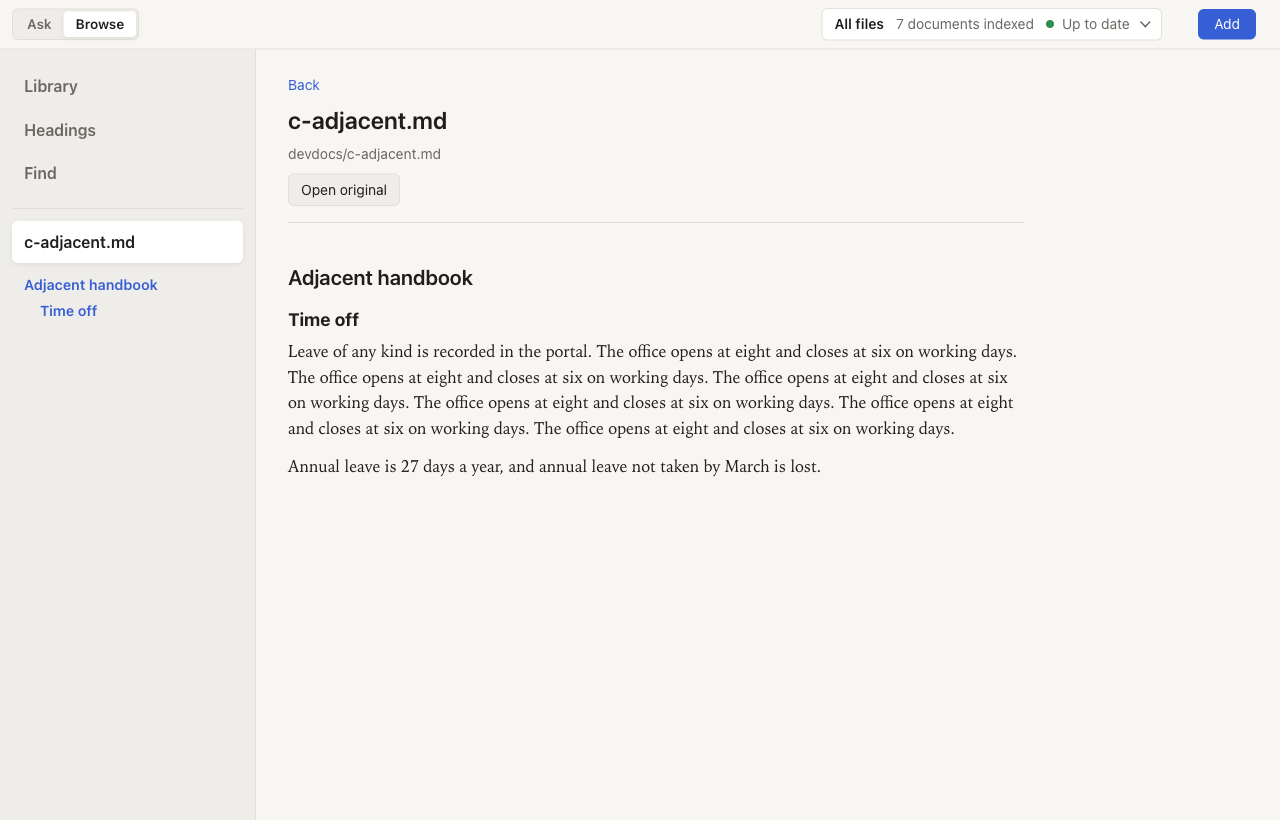
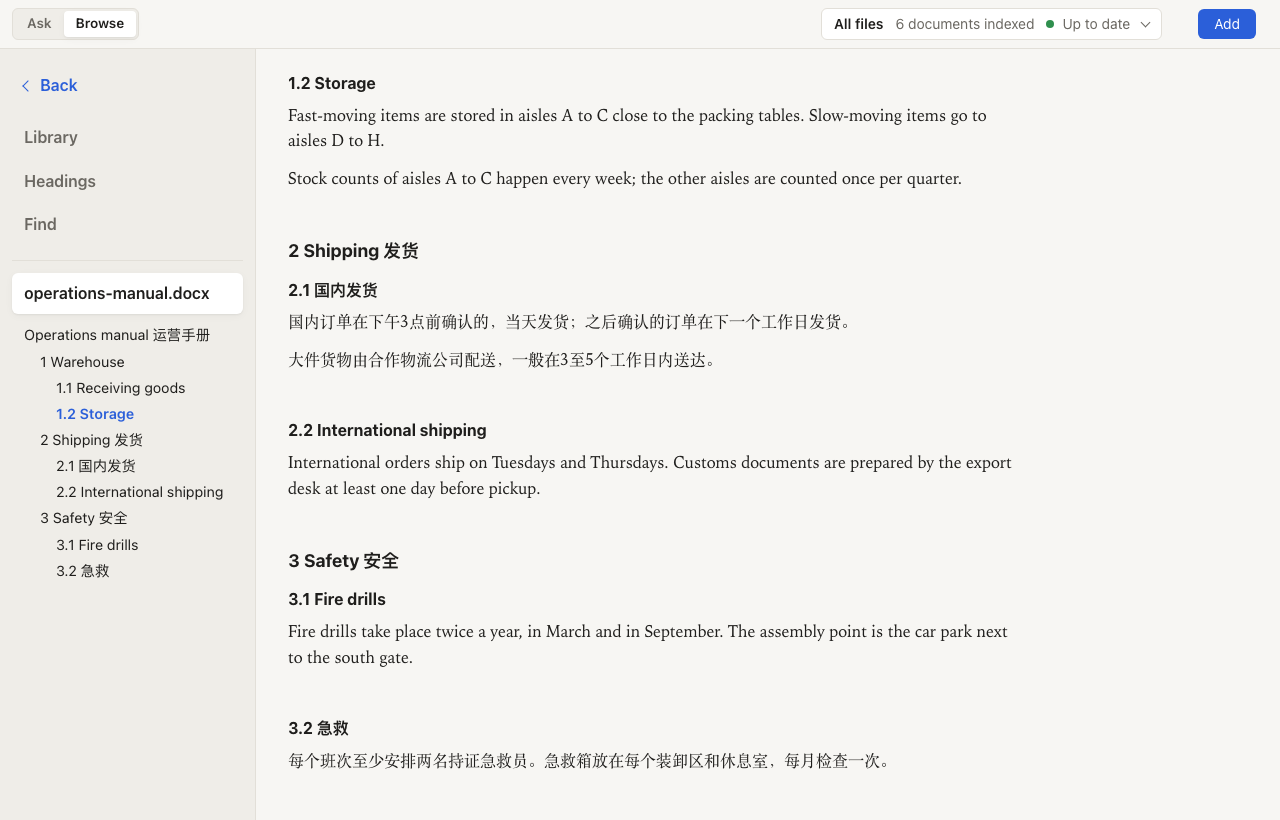
Back at the top of the Browse sidebar, history cleared on a library change; tests

diff --git a/src/renderer/browse/view.js b/src/renderer/browse/view.js
@@ -8,11 +8,13 @@
 // Library, Headings or Find show.
 //
 // Every move between pages and documents goes into the page history (shared/history.js): the
-// Ask page passes its own, which spans Ask and Browse; on its own the view keeps one. Back on the
-// Document page and Cmd+[ return to the place before, as it was left.
+// Ask page passes its own, which spans Ask and Browse; on its own the view keeps one. Back at the
+// top of the sidebar, always shown and disabled when there is nothing to go back to, and Cmd+[
+// return to the place before, as it was left.
 
 const MARKUP = `
 <nav class="browse-sidebar" aria-label="Browse" data-testid="browse-sidebar">
+  <button type="button" class="sidebar-back" data-testid="browse-back" aria-keyshortcuts="Meta+BracketLeft" title="Back (Cmd+[)" disabled>Back</button>
   <button type="button" class="browse-tab" data-tab="library" data-testid="browse-tab-library">Library</button>
   <button type="button" class="browse-tab" data-tab="headings" data-testid="browse-tab-headings">Headings</button>
   <button type="button" class="browse-tab" data-tab="find" data-testid="browse-tab-find">Find</button>
@@ -42,7 +44,6 @@ const MARKUP = `
 <section class="browse-page" data-page="document" data-testid="document" aria-label="Document" hidden>
   <article class="doc-body">
     <header class="doc-head">
-      <button type="button" class="link doc-back" data-testid="doc-back" hidden>Back</button>
       <h1 class="doc-title" data-testid="doc-title"></h1>
       <p class="doc-path" data-testid="doc-path"></p>
       <button type="button" class="open" data-testid="doc-open">Open original</button>
@@ -198,9 +199,9 @@ export function createBrowseView(root, { history: shared = null } = {}) {
       history.back();
     });
   }
-  const renderBack = () => (q('doc-back').hidden = !history.canGoBack());
+  const renderBack = () => (q('browse-back').disabled = !history.canGoBack());
   history.onChange(renderBack);
-  q('doc-back').addEventListener('click', () => history.back());
+  q('browse-back').addEventListener('click', () => history.back());
   /** Scroll position per page, so coming back to a page finds it where it was left. */
   const scrolls = {};
 

diff --git a/src/renderer/shared/history.js b/src/renderer/shared/history.js
@@ -1,7 +1,7 @@
 // Page history of the main window: one entry per place the user went (Ask, a Browse page, a
 // document at a section), each with what it needs to come back as it was left: the scroll
-// position, the heading selected, the words found. Back (the control on the Document page, or
-// Cmd+[ anywhere) returns to the entry before. Views keep their own content when hidden, so an
+// position, the heading selected, the words found. Back (at the top of the Browse sidebar, or
+// Cmd+[ anywhere) returns to the entry before. Changing the library clears the history. Views keep their own content when hidden, so an
 // entry only says where to go and what to restore; the Ask results stay as they were.
 
 /** Most entries kept; older ones are dropped first. */
@@ -50,6 +50,11 @@ export function createHistory({ initial, apply, capture = () => ({}) }) {
     /** Updates the current entry with state that changed in place (a heading chosen, a search run). */
     replace(patch) {
       Object.assign(top(), patch);
+    },
+    /** Forgets every entry and starts again from entry (another library is a fresh start). */
+    reset(entry) {
+      entries.splice(0, entries.length, entry);
+      changed();
     },
     /** Goes to the entry before; false when there is none. */
     back() {

diff --git a/src/renderer/shared/topbar.js b/src/renderer/shared/topbar.js
@@ -90,11 +90,12 @@ export function statusOf(s) {
 
 /**
  * Mounts the bar into header. views maps a view name (search, browse) to its container, which the
- * empty state hides. onView(name) is called when the user switches. Returns an object the page
+ * empty state hides. onView(name) is called when the user switches; onLibraryChange(id) when the
+ * current library changes without a reload of the window. Returns an object the page
  * uses: setView(name), setConnection(kind, text) for its own connection problems,
  * setFallbackCount(n) for a count when no watcher reports one, and isEmpty().
  */
-export function mountTopBar(header, { views = {}, onView = () => {} } = {}) {
+export function mountTopBar(header, { views = {}, onView = () => {}, onLibraryChange = () => {} } = {}) {
   header.classList.add('topbar');
   header.dataset.testid = 'status-bar';
   header.innerHTML = MARKUP;
@@ -233,7 +234,9 @@ export function mountTopBar(header, { views = {}, onView = () => {} } = {}) {
 
   function applyLibraries(v) {
     if (!v) return;
+    const before = state.libraries?.current;
     state.libraries = v;
+    if (before && v.current !== before) onLibraryChange(v.current);
     renderLibraries();
     renderStatus();
   }

diff --git a/src/renderer/browse/browse.css b/src/renderer/browse/browse.css
@@ -67,6 +67,43 @@ button.link:hover {
 
 /* Sidebar entries */
 
+/* Back, at the top of the sidebar so it is always in reach; disabled with nothing to go back to. */
+.sidebar-back {
+  display: flex;
+  align-items: center;
+  gap: var(--space-2);
+  width: 100%;
+  margin-bottom: var(--space-2);
+  padding: var(--space-2) var(--space-3);
+  border: 0;
+  border-radius: var(--radius-small);
+  background: none;
+  color: var(--accent);
+  font: inherit;
+  font-weight: 600;
+  text-align: left;
+  cursor: pointer;
+}
+
+.sidebar-back::before {
+  content: '';
+  width: 7px;
+  height: 7px;
+  border-left: 1.5px solid currentColor;
+  border-bottom: 1.5px solid currentColor;
+  transform: rotate(45deg);
+}
+
+.sidebar-back:hover:not(:disabled) {
+  background: var(--surface);
+}
+
+.sidebar-back:disabled {
+  color: var(--text-muted);
+  opacity: 0.5;
+  cursor: default;
+}
+
 .browse-tab {
   display: block;
   width: 100%;

diff --git a/src/renderer/ask/ask.js b/src/renderer/ask/ask.js
@@ -97,6 +97,10 @@ const bar = mountTopBar($('top-bar'), {
       showView(view);
       return view === 'search' ? { view: 'search' } : state.browse.current();
     }),
+  // Another library is a fresh start: nothing to go back to. (Selecting one normally reloads the
+  // window, which clears the history too.)
+  onLibraryChange: () =>
+    history.reset(state.view === 'browse' && state.browse ? state.browse.current() : { view: 'search' }),
 });
 
 function setState(kind, text) {

diff --git a/docs/app.md b/docs/app.md
@@ -156,7 +156,7 @@ src/renderer/shared/topbar.js and topbar.css, mounted by the Ask page into `<hea
 
 The Ask and Browse switch in the top bar shows either view in the same page (src/renderer/ask/index.html); both stay in the page, so each keeps its state and nothing reloads. Browse (src/renderer/browse/view.js, also standalone at browse/index.html) has a fixed sidebar with Library, Headings, Find and, once a document is open, Document (labelled with the file name, its nested outline below it); only the content area scrolls, and each page keeps its scroll position. Library: every document, outline collapsed, sort by name or last change, indexing state. Headings: headings found in two or more documents; a heading shows that section from every document side by side. Find: keyword search, hits grouped by document and section (src/main/browse/search.ts): every word must occur in the section, and words in quotes ("annual leave", “年假 结转”) are one phrase that must occur as written. Sections where the words stand next to each other in the query's order come first, then sections with all words in one paragraph, then the rest; documents are ordered by their best section, and the ranking is done before the 200-hit limit cuts. The snippet is the stretch of the section where the words are densest. Document: sections in order, an anchor per section, the page and the printed page label when the PDF has one, Open original. Opening a document from any page, or Read section on the Ask page, always lands on Document and never changes the state of Library, Headings or Find.
 
-Page history (src/renderer/shared/history.js): every move between Ask, the Browse pages and documents is an entry, with what it needs to come back as it was left: the scroll position, the heading selected, the words found, the document and section. Back at the top of the Document page and Cmd+[ anywhere return to the entry before; the Ask results stay as they were. The standalone browse page keeps a history of its own. No model and no server call: everything comes from the browse index.
+Page history (src/renderer/shared/history.js): every move between Ask, the Browse pages and documents is an entry, with what it needs to come back as it was left: the scroll position, the heading selected, the words found, the document and section. Back at the top of the Browse sidebar, above Library (always shown, disabled when there is nothing to go back to), and Cmd+[ anywhere return to the entry before; the Ask results stay as they were. Changing the library clears the history. The standalone browse page keeps a history of its own. Find results carry no label for their rank; the order is the ranking. No model and no server call: everything comes from the browse index.
 
 The browse index (src/main/browse) is one JSON file per document in `<dataDir>/libraries/<library id>/browse/<id>.json`, id the first 16 hex digits of sha256 of the file path:
 
